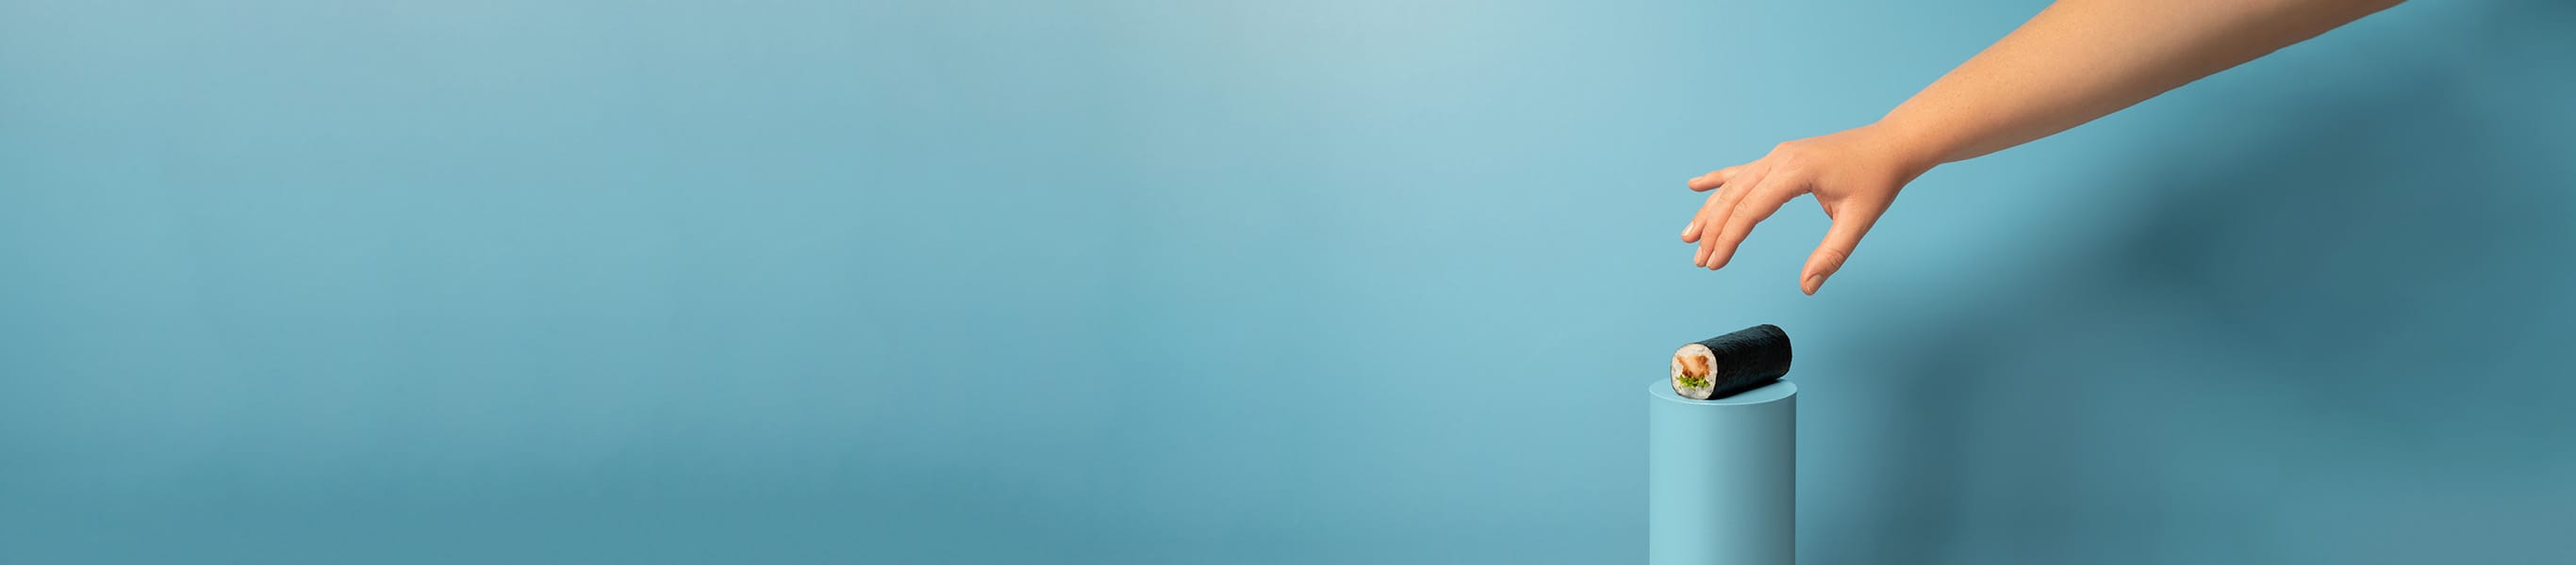
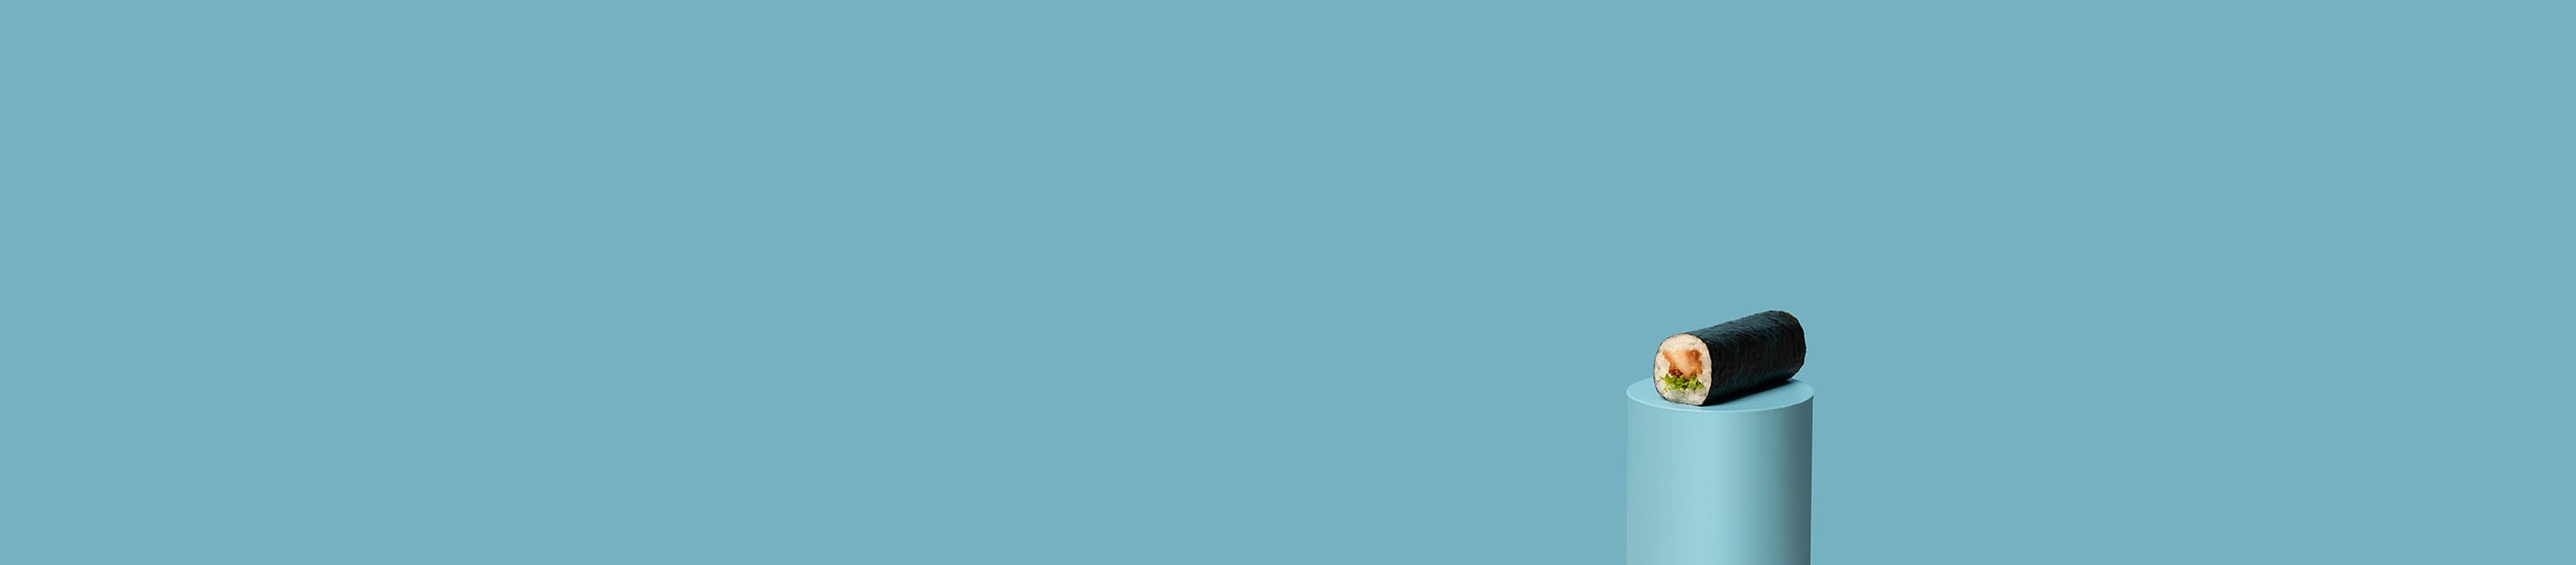
Handless header images

diff --git a/app/styles/nav.scss b/app/styles/nav.scss
@@ -50,6 +50,7 @@
 
 .aboutus-hero {
 	background-image: url("/images/headers/aboutus-desktop.jpg");
+	background-position-y: bottom;
 
 	@media (max-width: 991.98px) {
 		background-image: url("/images/headers/aboutus-mobile.jpg");
@@ -58,6 +59,7 @@
 
 .careers-hero {
 	background-image: url("/images/headers/careers-desktop.jpg");
+	background-position-y: bottom;
 
 	@media (max-width: 991.98px) {
 		background-image: url("/images/headers/careers-mobile.jpg");
